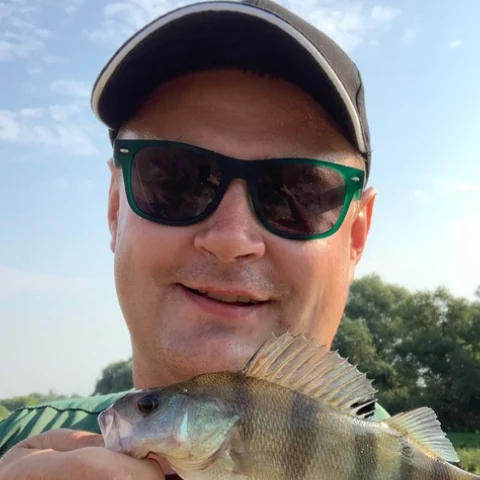
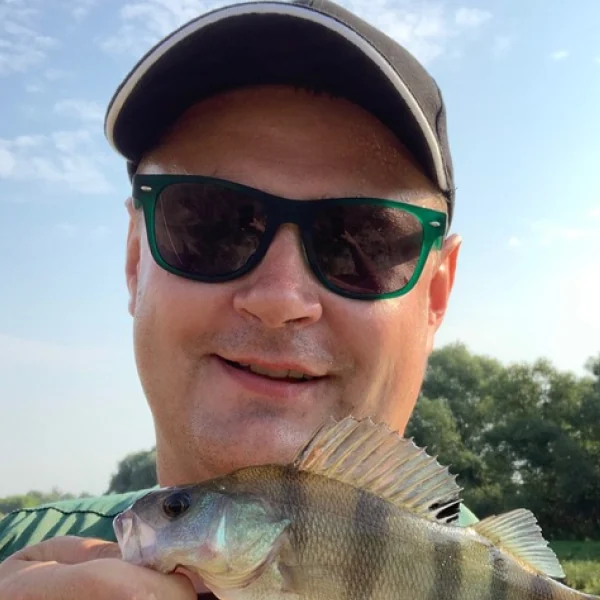
Фото учасників 600×600 (оновлені), версія для кешу
Claude-Session: https://claude.ai/code/session_01BzNdATv2NCeESr3Yr1C2bu

diff --git a/assets/app.js b/assets/app.js
@@ -786,7 +786,7 @@
       '<div class="pc-hero__main">' +
       // Є фото — кружечок із фото, а місце маленьким значком у куті; немає — кружечок із місцем, як раніше
       (PHOTOS[normName(st.name)]
-        ? '<div class="pc-ava" aria-hidden="true"><img src="assets/players/lg/' + encodeURIComponent(PHOTOS[normName(st.name)]) + '" alt="" decoding="async" onerror="this.onerror=null;this.src=this.src.replace(\'/lg/\',\'/\')">' +
+        ? '<div class="pc-ava" aria-hidden="true"><img src="assets/players/lg/' + encodeURIComponent(PHOTOS[normName(st.name)]) + '?v=' + PHOTO_V + '" alt="" decoding="async" onerror="this.onerror=null;this.src=this.src.replace(\'/lg/\',\'/\')">' +
             (started && st.place ? '<span class="pc-place pc-place--badge' + medal + '">' + st.place + '</span>' : '') + '</div>'
         : (started && st.place ? '<div class="pc-place' + medal + '" aria-hidden="true">' + st.place + '</div>' : '')) +
       '<div class="pc-head__txt"><h1 class="title" id="pcTitle" tabindex="-1">' + esc(st.name) + '</h1>' +
@@ -2075,10 +2075,11 @@
   // ----- Фото учасників (assets/players/players.json: «прізвище ім'я» малими літерами → файл) -----
   // Кого немає у списку або чиє фото не завантажилось — показуємо ініціали.
   var PHOTOS = {};
+  var PHOTO_V = 2;   // збільшити, коли фото замінено на нові (щоб Telegram і браузери не тримали старі)
   function avatarHtml(name) {
     var f = PHOTOS[normName(name)];
     return '<span class="av' + (f ? ' av--ph' : '') + '" aria-hidden="true">' + esc(initials(name)) +
-      (f ? '<img src="assets/players/' + encodeURIComponent(f) + '" alt="" loading="lazy" decoding="async">' : '') + '</span>';
+      (f ? '<img src="assets/players/' + encodeURIComponent(f) + '?v=' + PHOTO_V + '" alt="" loading="lazy" decoding="async">' : '') + '</span>';
   }
   document.addEventListener('error', function (e) {
     var t = e.target;
@@ -2168,7 +2169,7 @@
     return Promise.all([
       loadImg('assets/logo.svg?v=3'),
       // для картинки — фото у більшій якості (assets/players/lg), якщо його немає — звичайне
-      loadImg(photo ? 'assets/players/lg/' + encodeURIComponent(photo) : null).then(function (im) { return im || loadImg(photo ? 'assets/players/' + encodeURIComponent(photo) : null); }),
+      loadImg(photo ? 'assets/players/lg/' + encodeURIComponent(photo) + '?v=' + PHOTO_V : null).then(function (im) { return im || loadImg(photo ? 'assets/players/' + encodeURIComponent(photo) + '?v=' + PHOTO_V : null); }),
       loadImg('assets/fish.webp'),
       document.fonts && document.fonts.load ? Promise.all([document.fonts.load('700 80px Fixel'), document.fonts.load('500 30px Fixel')]).catch(function () {}) : null
     ]).then(function (r) {

diff --git a/index.html b/index.html
@@ -11,8 +11,8 @@
   <link rel="preconnect" href="https://script.googleusercontent.com" crossorigin>
   <link rel="preload" href="assets/fonts/fixel-cyrillic-var.woff2" as="font" type="font/woff2" crossorigin>
   <link rel="preload" href="assets/fish.webp" as="image" type="image/webp">
-  <link rel="stylesheet" href="assets/style.css?v=20261106m">
-  <script src="config.js?v=20261106m"></script>
+  <link rel="stylesheet" href="assets/style.css?v=20261106n">
+  <script src="config.js?v=20261106n"></script>
   <script>
     // Запитуємо результати одразу, паралельно з завантаженням решти сторінки
     (function () {
@@ -24,7 +24,7 @@
       } catch (e) { window.__tmEarly = null; }
     })();
   </script>
-  <script src="assets/app.js?v=20261106m" defer></script>
+  <script src="assets/app.js?v=20261106n" defer></script>
 </head>
 <body>
   <header class="topbar">

diff --git a/README.md b/README.md
@@ -100,7 +100,7 @@ Google Таблиця  →  Apps Script (віддає JSON)  →  сайт на 
 
 ## Фото учасників
 
-Фото лежать у `assets/players/` (160×160, WebP — для списків) і `assets/players/lg/` (480×480 — для картки й картинки-сторіс), а `assets/players/players.json` зіставляє «прізвище ім'я» (малими літерами) з файлом. Сайт показує фото в кружечку замість ініціалів у списку учасників і в «Підсумку» на комп'ютері; кого немає у списку — ініціали. Нові фото: покласти в папку `player-photos` на комп'ютері (назва файлу = «Прізвище Ім'я» як у таблиці) і попросити Claude опублікувати.
+Фото лежать у `assets/players/` (160×160, WebP — для списків) і `assets/players/lg/` (600×600 — для картки й картинки-сторіс); після заміни фото збільшити `PHOTO_V` в app.js, а `assets/players/players.json` зіставляє «прізвище ім'я» (малими літерами) з файлом. Сайт показує фото в кружечку замість ініціалів у списку учасників і в «Підсумку» на комп'ютері; кого немає у списку — ініціали. Нові фото: покласти в папку `player-photos` на комп'ютері (назва файлу = «Прізвище Ім'я» як у таблиці) і попросити Claude опублікувати.
 
 ## 3. Що бачать глядачі
 
